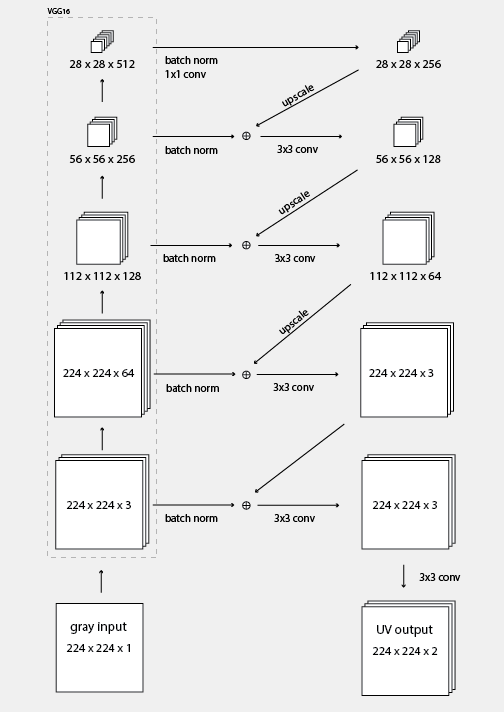
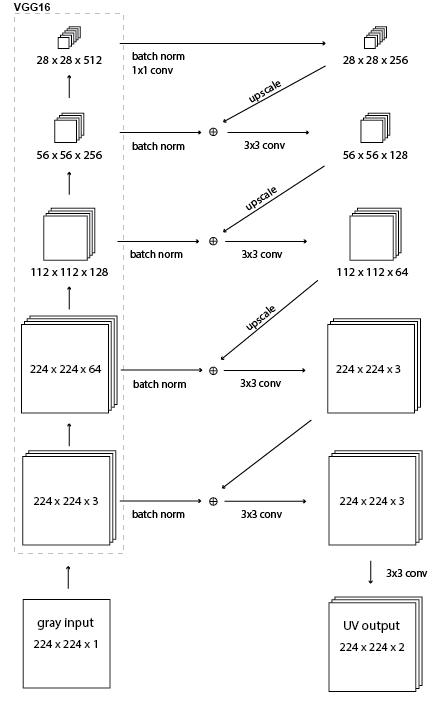
Replaced some pictures by higher resolution ones

diff --git a/Reports/Paper/Chapters/LiteratureReview.tex b/Reports/Paper/Chapters/LiteratureReview.tex
@@ -11,7 +11,7 @@
 \begin{wrapfigure}{R}{0.4\textwidth}
 	\vspace{-20pt}
 	\begin{center}
-		\includegraphics[width=0.40\textwidth]{Dahl_Architecture.png}
+		\includegraphics[width=0.35\textwidth]{Dahl_Architecture.png}
 	\end{center}
 	\caption{Network used by Dahl \cite{Dahl}}
 	\label{fig:dahlnetwork}
